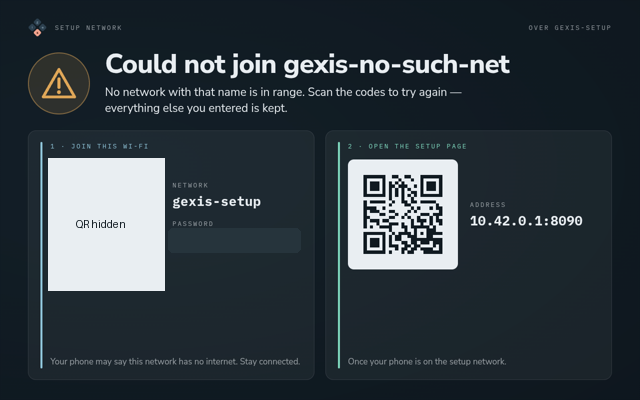
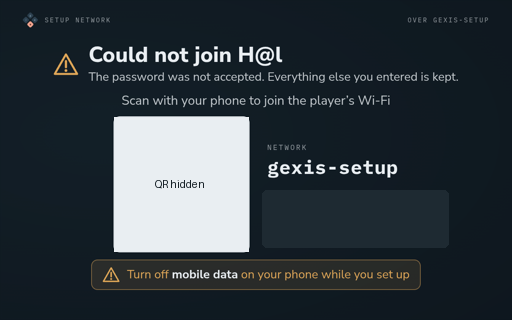
Design: first-time setup as it is after the blank-card test, with pictures
For Claude Design (George, 2026-09-29: "Update also the design claude diff
so it can update its designs"). IMPLEMENTED-DIFFERENTLY's setup subsection
is rewritten: the panel as one step at a time readable from 1-2 m (join,
phone connected, open the page, carry on on your phone, joining, done with
the Lyrion card apart), the mobile-data warnings, no idle screen during
setup, and the phone's steps as they are now - the blurred backdrop, the
Lyrion choice with Continue waiting for it, Change returning to Review.

design/implemented/: six panel pictures from today's trials (the setup
password and the join QR hidden) replace the three from yesterday, and
George's phone screenshot of the Music step, cropped below the status bar.

Changed region(s): [[0.0312, 0.125, 0.9062, 0.9375], [0.0312, 0.0312, 0.2188, 0.0938], [0.8125, 0.0312, 0.9688, 0.0938]]

diff --git a/design/IMPLEMENTED-DIFFERENTLY.md b/design/IMPLEMENTED-DIFFERENTLY.md
@@ -230,7 +230,7 @@ photographed from the device (panel at 1280×800; phone at 412×915, 2×). The
 setup pictures come from scripted trials at half size; **the setup password
 and the join QR code are hidden in them**, and personal values (a location, a
 network address) are blanked in two Settings pictures. The phone's setup page
-has no pictures yet: they come from the first full test on a blank card.
+has one picture, from George's phone (2026-09-29).
 First-time setup is on branch `phase-13` (PR #37) until it merges.
 
 ### Settings
@@ -284,51 +284,90 @@ idle screen. *phone-settings-mini-player.png, phone-system.png*
 and the gexis sound mark as the icon; Android offers a bookmark, not an
 installed app, and George kept it.
 
-### First-time setup (ADR-0031 as amended, ADR-0104)
+### First-time setup (ADR-0031 as amended, ADR-0104) - as of 2026-09-29
 
-**[S] The panel has a setup screen the design does not draw.** Setup is the
+Rewritten after the first full test on a blank card and George's review of it.
+It supersedes the version of this subsection from 2026-09-28. The code is on
+branch `phase-13` (PR #37) until it merges.
+
+**[S] The panel has setup screens the design does not draw.** Setup is the
 phone's (George: *"It is meant only for phone as the setting up device"*); the
-panel shows the way in and follows along. Built from the design's parts:
-- a header (the gexis mark, a mono crumb, *Over gexis-setup*);
-- **a hero**: a 124 px circular icon beside a title at the track title's size
-  and one line under it, in four versions (George: *"Larger text, more visual,
-  better design"*, and a large icon on an error):
-  - **new device**: the gexis mark, *Set up gexis*;
-  - **can't reach its Wi-Fi**: Wi-Fi struck through, amber;
-    *panel-setup-cannot-reach-wifi.png*
-  - **joining**: a pulsing Wi-Fi, *Joining <network>*, where the phone goes
-    next; *panel-setup-joining.png*
-  - **could not join**: a warning triangle, amber, *Could not join <network>*
-    with the reason; *panel-setup-could-not-join.png*
-- **two cards**: *1 · Join this Wi-Fi* (a QR code, the network and its
-  password; under it *"Your phone may say this network has no internet. Stay
-  connected."*) and *2 · Open the setup page* (a QR code and the address,
-  shown as `10.42.0.1:8090`).
+panel shows the way in and follows along, and takes no input.
+
+**[U] One step at a time, readable from 1-2 m** (George, 2026-09-29: *"2 QR
+codes on the same screen is a bit much … center each on the screen with larger
+text"*; *"what we display on the panel should be visible at 1 or 2 meters. Not
+scratch your retina with the size, but decent enough to be visible while still
+stylish"*). Everything centred; titles 60-72 px, lines 32 px, the network name
+and password in mono at 48 px, QR codes at 340 px, **nothing that has to be read
+under 30 px**; generous gaps between parts (*"everything is a bit compressed"*
+was the first verdict). The header keeps the gexis mark and a mono crumb. The
+steps follow what the device sees:
+
+1. **Join** - nobody on the setup network yet: title (*"Set up gexis"* on a new
+   device, *"gexis can't reach its Wi-Fi"* on one that lost its network), *"Scan
+   with your phone to join the player's Wi-Fi"*, the join QR code beside the
+   network name and password, and an amber **"Turn off mobile data on your phone
+   while you set up"** box. *panel-setup-1-join.png*
+2. **Phone connected** - a 220 px circle with a check and *"Phone connected"* at
+   72 px, for 2.5 s, **once the phone has an address from the setup network**
+   (not on association, which came before the phone itself showed it was
+   connected).
+3. **Open the page** - *"Now open the setup page"*, *"Scan with the same
+   phone"*, the page QR code beside `10.42.0.1:8090` and *"Your phone may say
+   'No internet'. Stay connected."*, and the mobile-data box again.
+   *panel-setup-2-open-the-page.png*
+4. **Carry on on your phone** - a phone icon in the circle, once the phone has
+   loaded the page. *panel-setup-3-carry-on-on-your-phone.png*
+5. **Joining <network>** - a pulsing Wi-Fi icon in the circle, 72 px title,
+   *"Put your phone back on <network> too."*; it stays up while the player looks
+   for a Lyrion server. *panel-setup-4-joining.png*
+6. **Done** - a check in the circle, *"<name> is on <network>"*, *"Restarting to
+   take its new name…"* when renaming, and **below it, apart, a card with the
+   Lyrion mark**: *Found your Lyrion server* with the server's name and address,
+   or the address given, *N Lyrion servers found - choose one in Settings*,
+   *Lyrion is off*, or *No Lyrion server found*. 10 s, then the panel's own
+   screens - or straight to the restart, with nothing in between (George: the
+   home screen must not blink first). *panel-setup-5-done-with-lyrion.png*
+
+- **Could not join** - the join step headed by a 64 px warning triangle and
+  *"Could not join <network>"* with the reason and *"Everything else you
+  entered is kept."* *panel-setup-could-not-join.png* (taken before the spacing
+  was loosened).
+- **The setup network did not start** - the triangle in the circle, the reason
+  in mono, and *"Trying again in a moment."*
+- **Starting setup…** - the gexis mark pulsing in the circle.
+- **A new device on Ethernet** - one step: the page's QR code and its address on
+  the home network.
 - **QR codes are dark on light**, the one light element on the panel: an
   inverted code is one some phone cameras do not read.
-- A new device on Ethernet shows one card: the page's address on the home
-  network.
+- **No idle screen during setup**, and setup ending counts as a touch (the idle
+  clock had appeared at the end, *"completely out of place"*).
 
 **[S] The phone's steps, against `Setup.dc.html`:**
-- **Network saves the choice and does not test it.** With one radio the join
-  can only happen after the setup network is down, which is after the page is
-  gone (amendment 5). The design's *Join network* / *Credentials accepted* pair
-  is not drawn; Continue saves. A wrong password brings setup back within about
-  15 s, and the page opens on Network with *"Could not join <network>. The
-  password was not accepted. Type the password again."*, every other answer
-  kept. **Continue then goes straight to Review** (George).
-- **Music has no server discovery** (amendment 4): over the setup network the
-  player cannot see the home one. An optional *Lyrion server* address field,
-  then the Spotify Connect and Bluetooth switches.
-- **Time**: the zone is read from the phone; *Choose by hand* goes region then
-  city from the device's full list. **Clock format (24 h / 12 h) is kept** and
-  now writes the setting above.
-- **Output** lists the device's real outputs by name, current one selected.
-- **Display**: *Panel attached* / *Headless*, **side by side and short at every
-  width** (George: two options should not need a scroll to reach Continue); the
-  design's proportions from 720 px up. Headless is the existing Settings row.
-- **Review**, then *Finish and connect*: the page shows *"<name> is joining
-  your network"*, the address `http://<name>.local:8090`, and what happens if
-  the password is wrong.
-- The phone gets the setup page in place of Settings for as long as setup is
-  on.
+- **Backdrop as designed**: the blurred diagonal weave under the radial scrim.
+  Drawn unblurred it read as *"this hash of colours"*.
+- **Welcome** adds an amber card, *"Keep mobile data off - until setup
+  finishes…"* (George could not reach the page until he turned it off).
+- **Network saves the choice and does not test it** (one radio: the join can
+  only happen after the page is gone). A wrong password brings setup back
+  within about 15 s; the page opens on Network with *"Could not join <network>.
+  The password was not accepted. Type the password again."*, every other answer
+  kept, and **Continue goes straight to Review**.
+- **Time**: the zone read from the phone, region then city by hand, and **Clock
+  format (24 h / 12 h)**, now a real setting.
+- **Music: Lyrion only on the user's say-so** (George: a server found and shown
+  without being asked for *"looks as though we went behind the user's back"*).
+  Three choices, **Continue disabled until one is picked** on a new device:
+  *Find my Lyrion server* (searched once the player is on the home network; one
+  found is used, several are left to Settings), *Enter an address* (the field
+  appears), *I don't use Lyrion* (switches LMS off). No discovery list over the
+  setup network. Then the Spotify Connect and Bluetooth switches.
+  *phone-setup-music.png* (George's phone; the green slider on the right is
+  Android's volume panel, and the lighter band at the bottom was a backdrop
+  bug, fixed since).
+- **Display**: *Panel attached* / *Headless* side by side and short at every
+  width.
+- **Review → Change → Continue returns to Review** for every step.
+- **Finish** shows *"<name> is joining your network"*, the address
+  `http://<name>.local:8090`, and what happens if the password is wrong.
